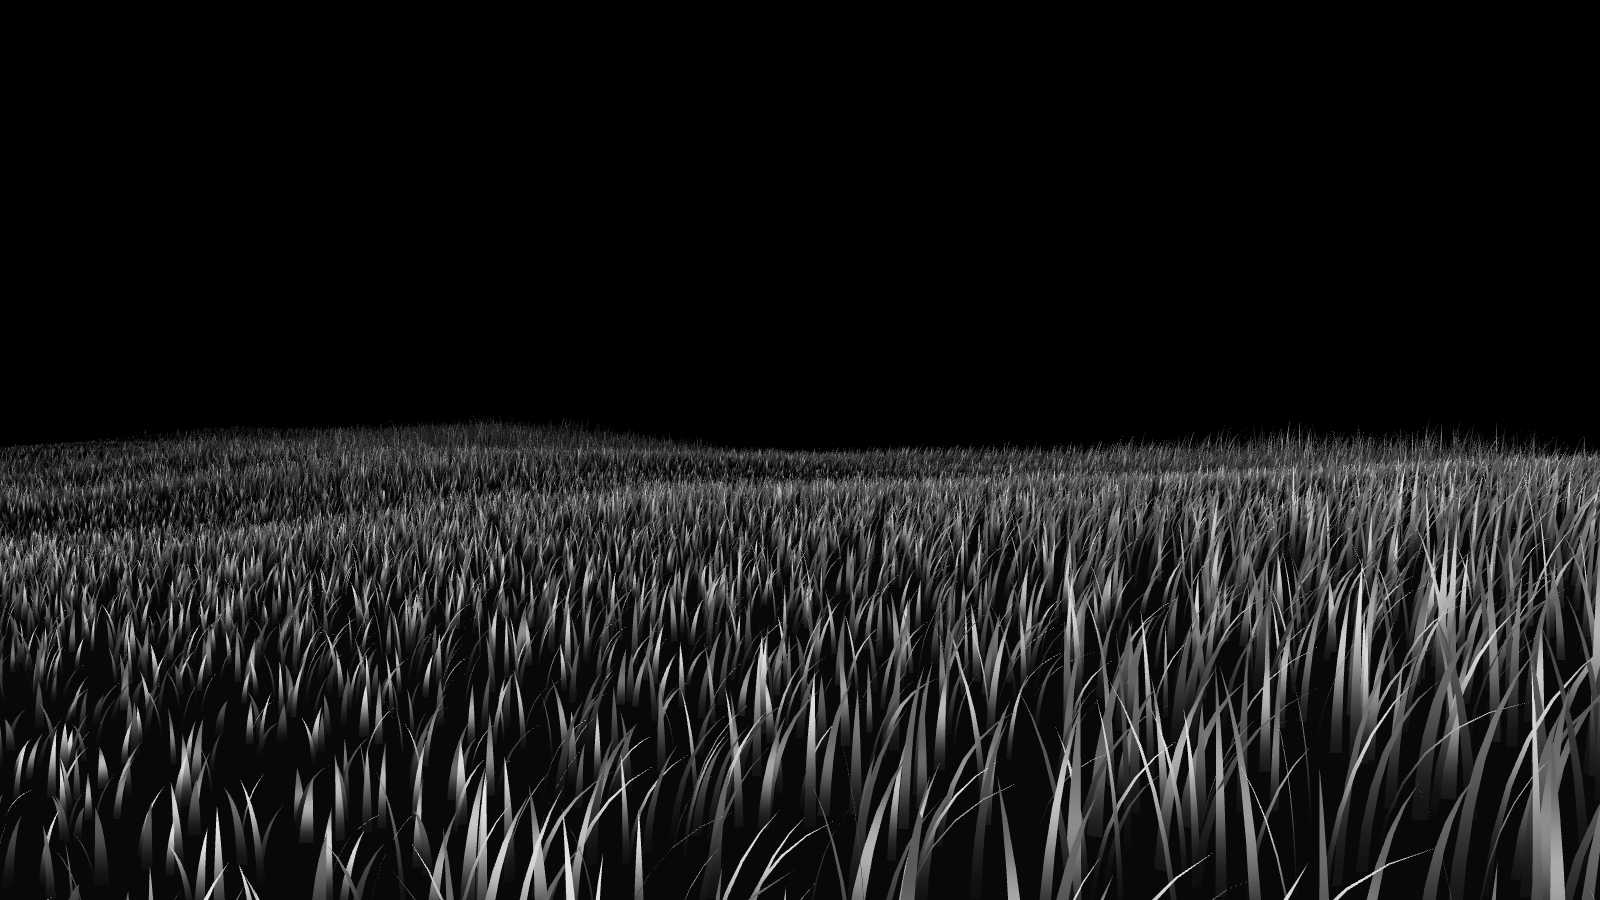
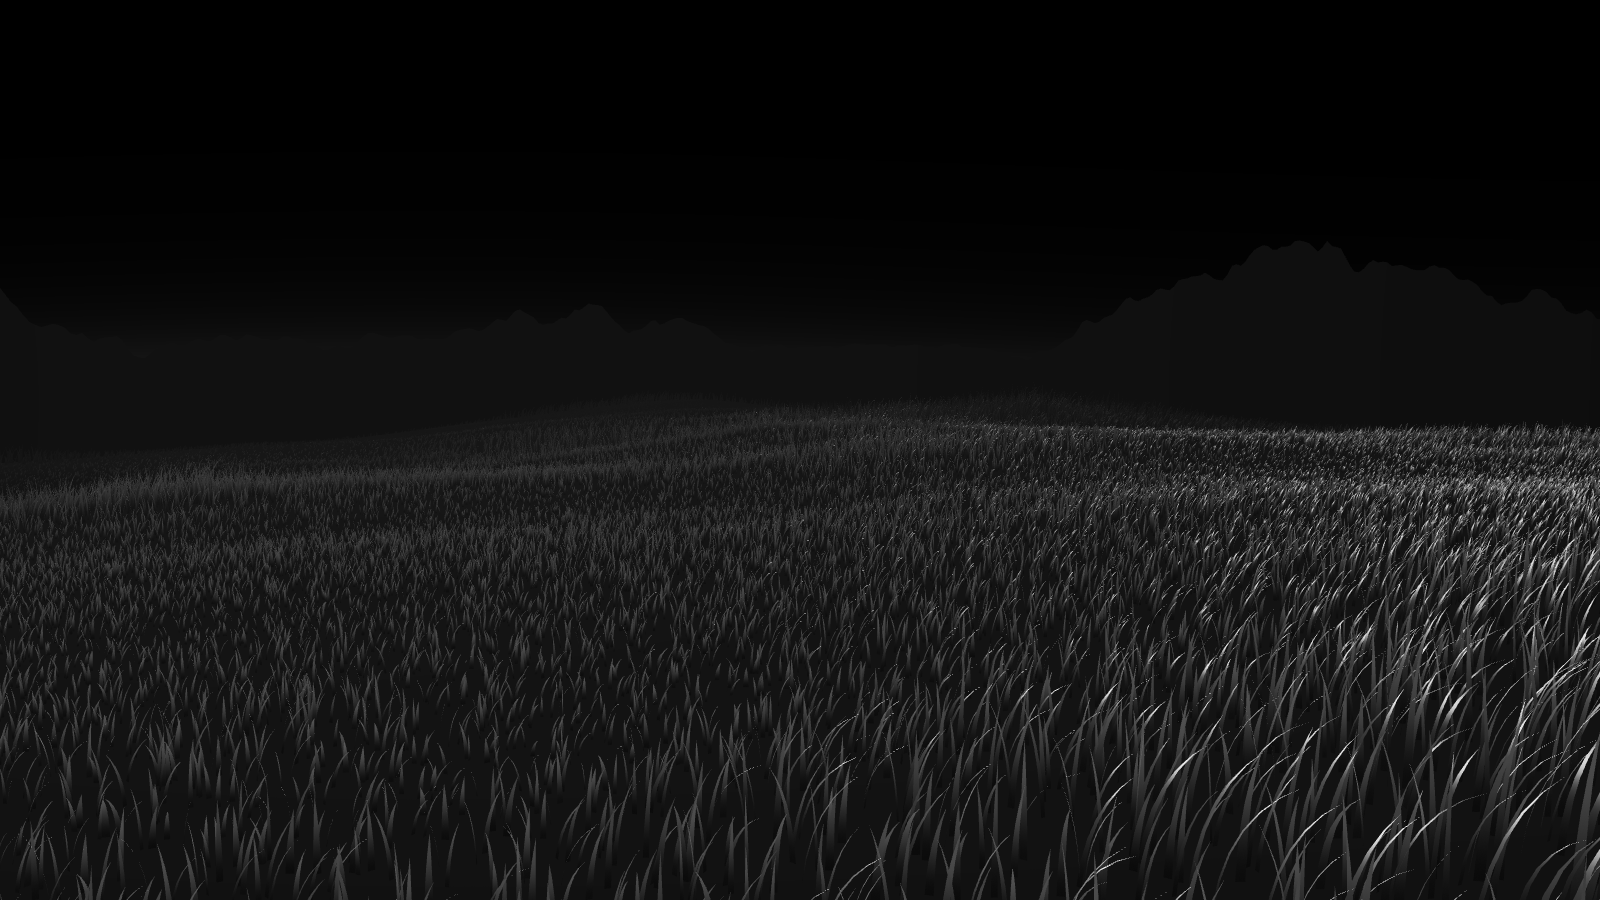
049: gusts you can see, cloud shadows, a horizon with mist
Bending blades show their paler side, so gusts read as bright waves.
Cloud shadows drift downwind over grass and ground, cover changing over
90 minutes. The meadow fades at the edge of its window; a hedgerow and
tree line stand on a ring at 70 m; distance fades into a mist lit from
the light's side, thickest at dawn and dusk. ?show=clouds|gusts isolates
each effect for checking at installation.

Claude-Session: https://claude.ai/code/session_013HQgzayejUMQnh8m84BGne

Changed region(s): [[0.0, 0.4356, 1.0, 1.0]]

diff --git a/projects/049-grass-nocturne/nocturne.js b/projects/049-grass-nocturne/nocturne.js
@@ -63,14 +63,24 @@ float vnoise(vec2 p) {
   vec2 i = floor(p), f = fract(p); f = f * f * (3.0 - 2.0 * f); ivec2 c = ivec2(i);
   return mix(mix(vhash(c), vhash(c + ivec2(1, 0)), f.x), mix(vhash(c + ivec2(0, 1)), vhash(c + ivec2(1, 1)), f.x), f.y);
 }
+// the sky's work: cloud shadows drifting downwind, and a mist lit from the light's side
+uniform vec2 uCloudOff; uniform float uCloudCover; uniform float uMist;
+float fbm2(vec2 p) { return 0.6 * vnoise(p) + 0.3 * vnoise(p * 2.03 + 5.2) + 0.1 * vnoise(p * 4.1 + 1.7); }
+float cloudShade(vec2 p) { return 1.0 - 0.78 * smoothstep(uCloudCover, uCloudCover + 0.16, fbm2((p + uCloudOff) / 34.0)); }
+float atmos(float e, vec3 pos, vec3 eye, vec3 L, float fog) {
+  float t = exp(-distance(pos, eye) * fog);
+  vec2 vh = normalize((pos - eye).xz + 1e-5), lh = normalize(L.xz + 1e-5);
+  float side = 0.45 + 0.55 * pow(max(0.0, dot(vh, lh)), 2.0);
+  return e * t + uMist * side * (1.0 - t);
+}
 float ground(vec2 p) {
   return 0.8 * sin(p.x * 0.053 + 1.3) * cos(p.y * 0.047 - 0.4) + 0.4 * sin(p.x * 0.11 - p.y * 0.083 + 2.0) + 0.45 * (vnoise(p * 0.18) - 0.5);
 }
 `;
   const GRASS_VS = COMMON + `
 uniform mat4 uVP; uniform vec3 uEye; uniform vec2 uOrigin; uniform float uCell; uniform int uN; uniform int uPer;
-uniform float uTime; uniform vec3 uWind; uniform int uSegs;
-out float vT; out vec3 vN; out vec3 vTan; out vec3 vPos; out float vTone;
+uniform float uTime; uniform vec3 uWind; uniform int uSegs; uniform float uSpan;
+out float vT; out vec3 vN; out vec3 vTan; out vec3 vPos; out float vTone; out float vSilver; out float vFade; out float vShade;
 void main() {
   int inst = gl_InstanceID, k = inst % uPer, c = inst / uPer;
   ivec2 cell = ivec2(floor(uOrigin / uCell)) + ivec2(c % uN, c / uN);
@@ -91,6 +101,13 @@ void main() {
   float gust = 0.5 + 0.5 * sin(along * 0.28 - uTime * 1.6 + 2.0 * vnoise(root * 0.07));
   float flutter = 0.08 * sin(uTime * (2.2 + 1.5 * h01(hb ^ 0x4u)) + h01(hb ^ 0x5u) * 6.28);
   vec2 bendDir = own * lean + uWind.xy * uWind.z * (0.2 + 0.9 * gust * gust) + own.yx * vec2(1.0, -1.0) * flutter;
+  // a bending blade shows its paler side: strong gusts read as bright waves crossing the field
+  float windAmt = uWind.z * (0.2 + 0.9 * gust * gust);
+  vSilver = smoothstep(0.22, 0.75, windAmt);
+  // the window of cells fades out at its edges, so the meadow has no hard end
+  vec2 lo = root - uOrigin, hi = uOrigin + uSpan - root;
+  vFade = smoothstep(0.0, 7.0, min(min(lo.x, lo.y), min(hi.x, hi.y)));
+  vShade = cloudShade(root);
   float bend = min(length(bendDir), 1.2); vec2 bd = bendDir / max(length(bendDir), 1e-4);
   float th = bend * 1.05;
   float y0 = ground(root);
@@ -108,8 +125,8 @@ void main() {
   gl_Position = uVP * vec4(pos, 1.0);
 }`;
   const GRASS_FS = COMMON + `
-uniform vec3 uEye; uniform vec3 uLight; uniform float uFog; uniform float uExposure;
-in float vT; in vec3 vN; in vec3 vTan; in vec3 vPos; in float vTone;
+uniform vec3 uEye; uniform vec3 uLight; uniform float uFog; uniform float uExposure; uniform int uShow;
+in float vT; in vec3 vN; in vec3 vTan; in vec3 vPos; in float vTone; in float vSilver; in float vFade; in float vShade;
 out vec4 frag;
 void main() {
   vec3 V = normalize(uEye - vPos), N = faceforward(vN, -V, vN), H = normalize(uLight + V);
@@ -117,12 +134,14 @@ void main() {
   float th = dot(vTan, H), sheen = pow(max(0.0, 1.0 - th * th), 36.0) * (0.25 + 0.75 * vT);
   float rim = pow(1.0 - abs(dot(N, V)), 3.0) * 0.25 * vT;
   float occ = mix(0.12, 1.0, smoothstep(0.0, 0.75, vT));
-  float e = (0.04 + 0.32 * diff * vTone + 1.2 * sheen + rim) * occ;
-  float d = distance(vPos, uEye);
-  e *= exp(-d * uFog);
+  float silver = 0.95 * vSilver * vT * (0.4 + 0.6 * diff);
+  float e = (0.03 + (0.46 * diff * vTone + 1.2 * sheen + rim + silver) * vShade) * occ * vFade;
+  e = atmos(e, vPos, uEye, uLight, uFog);
   float lum = 1.0 - exp(-e * uExposure);
   float g = (h01(uint(gl_FragCoord.x) * 1973u ^ uint(gl_FragCoord.y) * 9277u) - 0.5) / 255.0;   // no banding on 8-bit panels
   frag = vec4(vec3(lum + g), 1.0);
+  if (uShow == 1) frag = vec4(vec3(vShade), 1.0);        // ?show=clouds: the cloud shadows alone
+  if (uShow == 2) frag = vec4(vec3(vSilver), 1.0);       // ?show=gusts: where the wind turns blades pale
 }`;
   const GROUND_VS = COMMON + `
 uniform mat4 uVP; uniform vec2 uOrigin; uniform float uSpan; uniform int uRes;
@@ -134,8 +153,38 @@ void main() {
   gl_Position = uVP * vec4(vPos, 1.0);
 }`;
   const GROUND_FS = COMMON + `
-uniform vec3 uEye; uniform float uFog; uniform float uExposure; in vec3 vPos; out vec4 frag;
-void main() { float e = 0.02 * exp(-distance(vPos, uEye) * uFog); frag = vec4(vec3(1.0 - exp(-e * uExposure)), 1.0); }`;
+uniform vec3 uEye; uniform vec3 uLight; uniform float uFog; uniform float uExposure; in vec3 vPos; out vec4 frag;
+void main() { float e = atmos((0.012 + 0.06 * max(uLight.y, 0.0)) * cloudShade(vPos.xz), vPos, uEye, uLight, uFog); frag = vec4(vec3(1.0 - exp(-e * uExposure)), 1.0); }`;
+  // a tree line on a ring round the field, its height from noise on the ground plane (no seam)
+  const TREES_VS = COMMON + `
+uniform mat4 uVP; uniform int uM; uniform float uR;
+out vec3 vPos;
+void main() {
+  int i = gl_VertexID / 2; bool top = gl_VertexID % 2 == 1;
+  float a = float(i) / float(uM) * 6.2831853;
+  vec2 p = vec2(cos(a), sin(a)) * uR;
+  float n = vnoise(p * 0.09 + 11.0), n2 = vnoise(p * 0.45 + 3.0);
+  float crowns = vnoise(p * 1.1 + 5.0) * 0.6 + vnoise(p * 2.6 + 1.0) * 0.4;   // the broken edge of leaves
+  float hgt = 1.4 + 7.5 * pow(n, 1.8) + 1.2 * n2 + (0.6 + 2.0 * n) * crowns;   // hedgerow, trees standing out of it
+  vPos = vec3(p.x, ground(p * 0.5) + (top ? hgt : -3.0), p.y);
+  gl_Position = uVP * vec4(vPos, 1.0);
+}`;
+  const TREES_FS = COMMON + `
+uniform vec3 uEye; uniform vec3 uLight; uniform float uFog; uniform float uExposure; in vec3 vPos; out vec4 frag;
+void main() { float e = atmos(0.0, vPos, uEye, uLight, uFog * 0.45); frag = vec4(vec3(1.0 - exp(-e * uExposure)), 1.0); }`;
+  // the sky: black, with the mist glowing low on the light's side and a faint airglow at the horizon
+  const SKY_VS = `#version 300 es
+void main() { vec2 p = vec2(float((gl_VertexID << 1) & 2), float(gl_VertexID & 2)); gl_Position = vec4(p * 2.0 - 1.0, 1.0, 1.0); }`;
+  const SKY_FS = `#version 300 es
+precision highp float;
+uniform vec2 uRes; uniform float uHorizonY; uniform float uLightX; uniform float uMist; uniform float uExposure; out vec4 frag;
+void main() {
+  vec2 ndc = gl_FragCoord.xy / uRes * 2.0 - 1.0;
+  float glow = exp(-max(0.0, ndc.y - uHorizonY) / 0.12);
+  float side = 0.45 + 0.55 * exp(-pow(ndc.x - uLightX, 2.0) / 0.8);
+  float e = (uMist * 1.15 * side + 0.012) * glow;
+  frag = vec4(vec3(1.0 - exp(-e * uExposure)), 1.0);
+}`;
 
   // ───────────────────────── the screen ─────────────────────────
   const Q = new URLSearchParams(location.search), num = (k, d) => (Q.has(k) && isFinite(+Q.get(k)) ? +Q.get(k) : d);
@@ -165,6 +214,8 @@ void main() { float e = 0.02 * exp(-distance(vPos, uEye) * uFog); frag = vec4(ve
     return { p, u };
   }
   const grass = program(GRASS_VS, GRASS_FS), groundP = program(GROUND_VS, GROUND_FS);
+  const trees = program(TREES_VS, TREES_FS), sky = program(SKY_VS, SKY_FS);
+  const TREE_M = 2400, TREE_R = 70, SHOW = { clouds: 1, gusts: 2 }[Q.get('show')] || 0;
   const vao = gl.createVertexArray();
   // the ground mesh: indices for a (RES+1)² grid
   const RES = 96, idx = [];
@@ -219,12 +270,34 @@ void main() { float e = 0.02 * exp(-distance(vPos, uEye) * uFog); frag = vec4(ve
     // the night is darker than the day: exposure follows the light's height (7° → 1.5, 38° → 3.0)
     const elev = Math.asin(L[1]) * 180 / Math.PI, exposure = 1.5 + 1.5 * Math.min(1, Math.max(0, (elev - 7) / 31)), fog = 0.04;
 
-    gl.useProgram(groundP.p); const g = groundP.u;
+    // the day's atmosphere: mist at dawn and dusk, clouds drifting downwind, their cover changing
+    const hr = s / 3600, mist = 0.01 + 0.04 * Math.exp(-(((hr - 6.5) / 1.5) ** 2)) + 0.03 * Math.exp(-(((hr - 19) / 1.6) ** 2));
+    const cloudOff = [-s * 1.8 * Math.cos(0.6), -s * 1.8 * Math.sin(0.6)], cover = 0.36 + 0.14 * Math.sin(TAU * s / 5400);   // from broken cloud to mostly clear, every 90 min
+    const atmosU = (u2) => { gl.uniform2f(u2.uCloudOff, cloudOff[0], cloudOff[1]); gl.uniform1f(u2.uCloudCover, cover); gl.uniform1f(u2.uMist, mist); };
+    // where the horizon and the light fall on screen
+    const ndc = (x, y, z) => { const w = VP[3] * x + VP[7] * y + VP[11] * z + VP[15]; return [(VP[0] * x + VP[4] * y + VP[8] * z + VP[12]) / w, (VP[1] * x + VP[5] * y + VP[9] * z + VP[13]) / w, w]; };
+    const hzn = ndc(eye[0] + hx * 500, eye[1], eye[2] + hz * 500);
+    const lhl = Math.hypot(L[0], L[2]) || 1, lp = ndc(eye[0] + L[0] / lhl * 500, eye[1], eye[2] + L[2] / lhl * 500);
+    const lightX = lp[2] > 0 ? lp[0] : (lp[0] > 0 ? -3 : 3);
+    gl.disable(gl.DEPTH_TEST);
+    gl.useProgram(sky.p); const k2 = sky.u;
+    gl.uniform2f(k2.uRes, canvas.width, canvas.height); gl.uniform1f(k2.uHorizonY, hzn[1]); gl.uniform1f(k2.uLightX, lightX);
+    gl.uniform1f(k2.uMist, mist); gl.uniform1f(k2.uExposure, exposure);
+    gl.drawArrays(gl.TRIANGLES, 0, 3);
+    gl.enable(gl.DEPTH_TEST);
+
+    gl.useProgram(trees.p); const tr = trees.u;
+    gl.uniformMatrix4fv(tr.uVP, false, VP); gl.uniform1i(tr.uM, TREE_M); gl.uniform1f(tr.uR, TREE_R); gl.uniform3fv(tr.uEye, eye); gl.uniform3fv(tr.uLight, L);
+    gl.uniform1f(tr.uFog, fog); gl.uniform1f(tr.uExposure, exposure); gl.uniform1f(tr.uSeed, O.seed); atmosU(tr);
+    gl.drawArrays(gl.TRIANGLE_STRIP, 0, 2 * (TREE_M + 1));
+
+    gl.useProgram(groundP.p); const g = groundP.u; atmosU(g); gl.uniform3fv(g.uLight, L);
     gl.uniformMatrix4fv(g.uVP, false, VP); gl.uniform2f(g.uOrigin, origin[0], origin[1]); gl.uniform1f(g.uSpan, SPAN);
     gl.uniform1i(g.uRes, RES); gl.uniform3fv(g.uEye, eye); gl.uniform1f(g.uFog, fog); gl.uniform1f(g.uExposure, exposure); gl.uniform1f(g.uSeed, O.seed);
     gl.drawElements(gl.TRIANGLES, idx.length, gl.UNSIGNED_SHORT, 0);
 
-    gl.useProgram(grass.p); const u = grass.u;
+    gl.useProgram(grass.p); const u = grass.u; atmosU(u); gl.uniform1f(u.uSpan, SPAN);
+    gl.uniform1i(u.uShow, SHOW);
     gl.uniformMatrix4fv(u.uVP, false, VP); gl.uniform3fv(u.uEye, eye); gl.uniform2f(u.uOrigin, origin[0], origin[1]);
     gl.uniform1f(u.uCell, CELL); gl.uniform1i(u.uN, N); gl.uniform1i(u.uPer, O.per); gl.uniform1f(u.uTime, time);
     gl.uniform3f(u.uWind, W.x, W.z, W.strength); gl.uniform1i(u.uSegs, SEGS); gl.uniform3fv(u.uLight, L);

diff --git a/projects/049-grass-nocturne/README.md b/projects/049-grass-nocturne/README.md
@@ -6,7 +6,7 @@ centimetres a second. The light's bearing and height follow the real day: high a
 noon, low and raking at night. Gusts of wind cross the field. Every screen running the piece
 shows the same moment, and a restart comes back to it.
 
-![21:40, eye 0.42 m, light 13°](preview.png)
+![06:40: dawn mist and the tree line, eye 0.73 m, light 21°](preview.png)
 
 ## How it relates to Herzog's *Field* (2026)
 
@@ -39,6 +39,16 @@ genre, not a reproduction, and **no code was taken from *Field***.
 - **The wind:** its direction wanders through the day, and its strength gusts on 97 s and
   411 s cycles. Gust fronts travel downwind across the field with a flutter on top, and each
   blade also has its own lean.
+- **Gusts you can see:** a blade bending in the wind shows its paler side, so strong gusts
+  appear as bright waves rolling across the field.
+- **Cloud shadows:** soft dark shapes, roughly 30–60 m across, drift downwind at 1.8 m/s and
+  darken the grass and the ground. The cover changes over 90 minutes, from broken cloud to
+  mostly clear.
+- **Horizon and mist:** a hedgerow with trees stands on a ring 70 m from the field's centre.
+  The meadow fades out over the last 7 m of the drawn window instead of ending in a line, and
+  distance fades into a mist lit from the light's side rather than into black. The mist is
+  thickest around 06:30 and 19:00. A faint glow at the horizon keeps the tree line visible at
+  night.
 - **Shading:** a fraction of light that wraps round the blade, plus a sheen along the blade's
   length (strongest at the tip), a rim light, and darkening at the root. Distance fades to
   black, the image is tone-mapped to grayscale, and one step of noise is added to stop
@@ -50,6 +60,8 @@ genre, not a reproduction, and **no code was taken from *Field***.
   (`?dim=19-22:0.6,22-7:0.35`; `?dim=` turns it off).
 - **Settings:** `?blades=4…24` (blades per cell) and `?scale=0.5…2` (render resolution) adjust
   it to the GPU. `?hud=0` hides the status line, `?seed=N` gives a different meadow.
+- **Diagnostics:** `?show=clouds` and `?show=gusts` display the cloud shadows or the gust
+  waves on their own, for checking at installation.
 - **Rehearsal:** `?at=2026-11-02T21:40&speed=60` starts the clock at that time and runs it 60
   times faster. `?still=1` holds the clock and draws a single frame, for thumbnails.
 - **Running it:** a full-screen browser in kiosk mode, set to start on boot. It needs no
